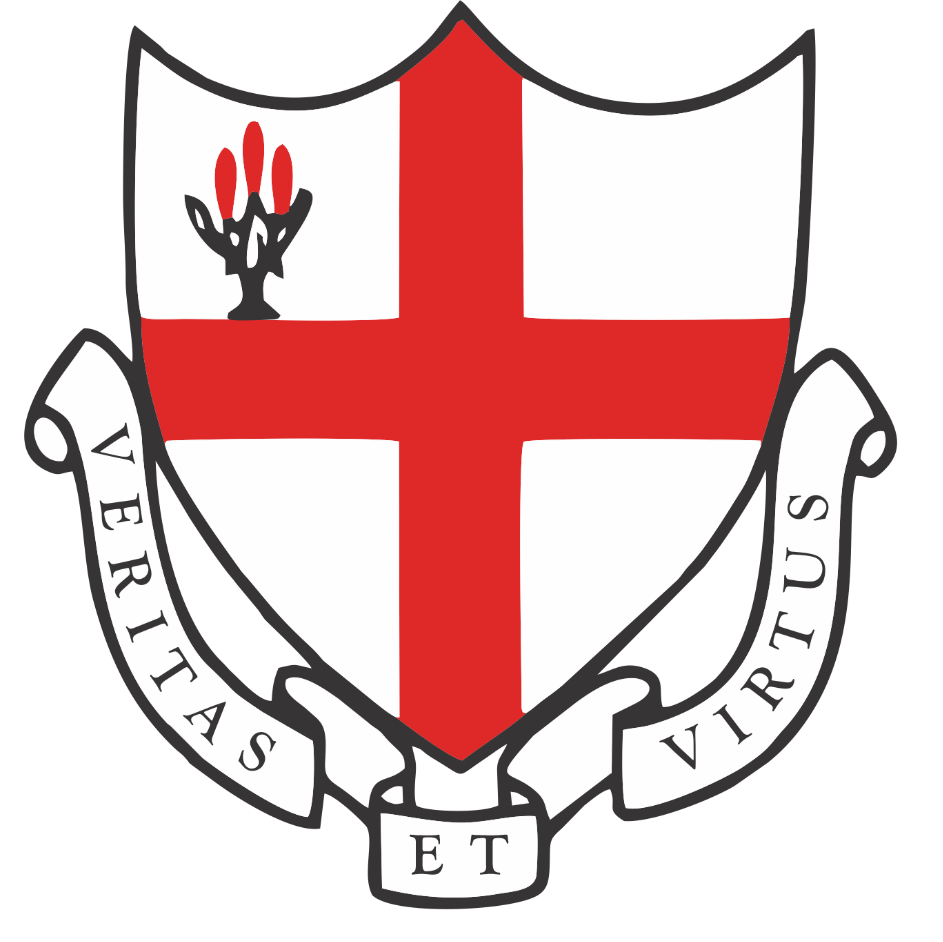
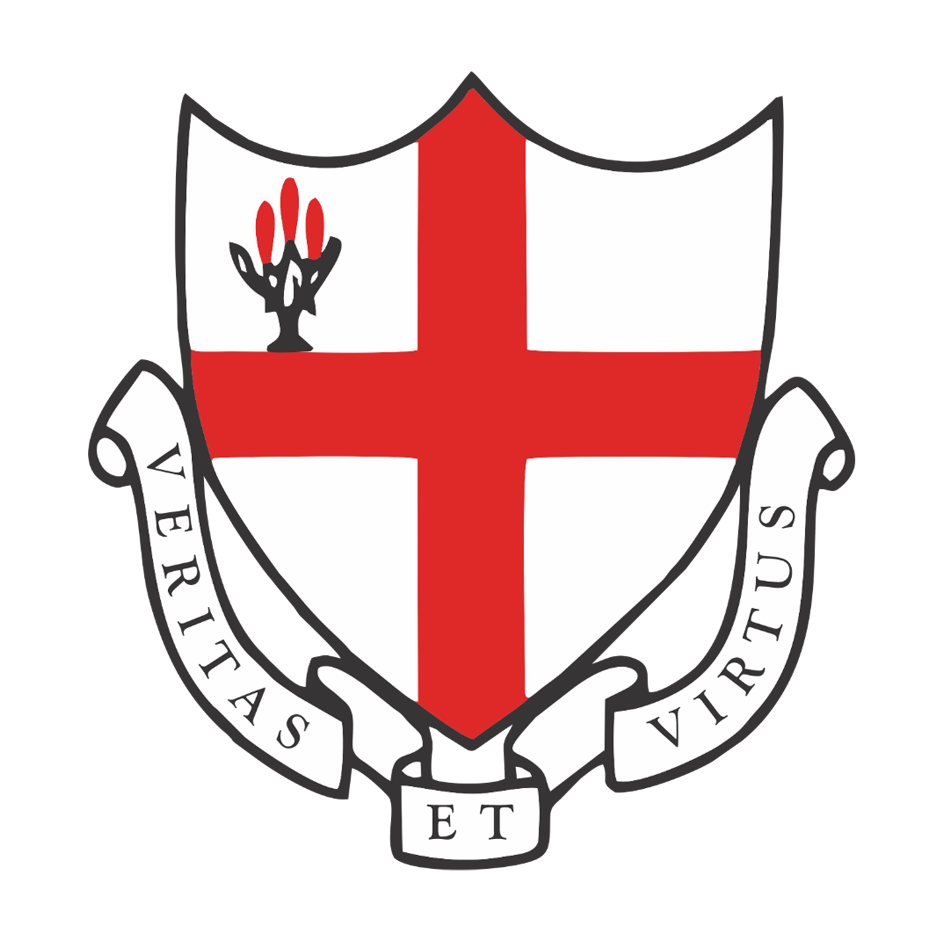
Add responsive badge images in WebP format for footer and navigation

Changed region(s): [[0.0308, 0.0, 0.9533, 0.9851]]

diff --git a/resources/views/layouts/nav.blade.php b/resources/views/layouts/nav.blade.php
@@ -1,7 +1,9 @@
 <nav class="relative bg-[#262A40] text-white px-4 md:px-8 py-2">
     <div class="flex items-center justify-between">
         <a href="/">
-            <img src="{{ asset('assets/GHS_Badge.webp') }}" alt="GHS Logo" class="h-12 w-12 md:h-16 md:w-16">
+            <img src="{{ asset('assets/GHS_Badge.webp') }}"
+                srcset="{{ asset('assets/GHS_Badge_small.webp') }} 48w, {{ asset('assets/GHS_Badge.webp') }} 96w"
+                sizes="(max-width: 768px) 48px, 96px" alt="GHS Logo" class="h-12 w-12 md:h-16 md:w-16">
         </a>
         <!-- Mobile menu button with ARIA attributes -->
         <button class="md:hidden text-white hover:text-[#DE2413] focus:outline-none absolute right-[16px]"
@@ -119,8 +121,7 @@
                                 class="block w-full px-4 py-2 hover:bg-gray-700 hover:text-[#DE2413]">Alumni Network</a>
                         </li>
                     @endif
-                    <li><a href="/dashboard"
-                            class="block w-full px-4 py-2 hover:bg-gray-700 hover:text-[#DE2413]">Alumni
+                    <li><a href="/dashboard" class="block w-full px-4 py-2 hover:bg-gray-700 hover:text-[#DE2413]">Alumni
                             Profile</a>
                     </li>
                     <li>

diff --git a/resources/views/layouts/footer.blade.php b/resources/views/layouts/footer.blade.php
@@ -2,7 +2,9 @@
     <div class="relative">
         {{-- Centered Badge Image --}}
         <div class="absolute w-full justify-center md:top-[45%] top-[35%] hidden md:flex">
-            <img src="{{ asset('assets/GHS_Badge.webp') }}" alt="GHS Badge" class="h-12 w-12 md:h-auto md:w-20 z-20">
+            <img src="{{ asset('assets/GHS_Badge.webp') }}"
+                srcset="{{ asset('assets/GHS_Badge_small.webp') }} 48w, {{ asset('assets/GHS_Badge.webp') }} 96w"
+                sizes="(max-width: 768px) 48px, 96px" alt="GHS Badge" class="h-12 w-12 md:h-auto md:w-20 z-20">
         </div>
 
         {{-- Main Grid --}}
